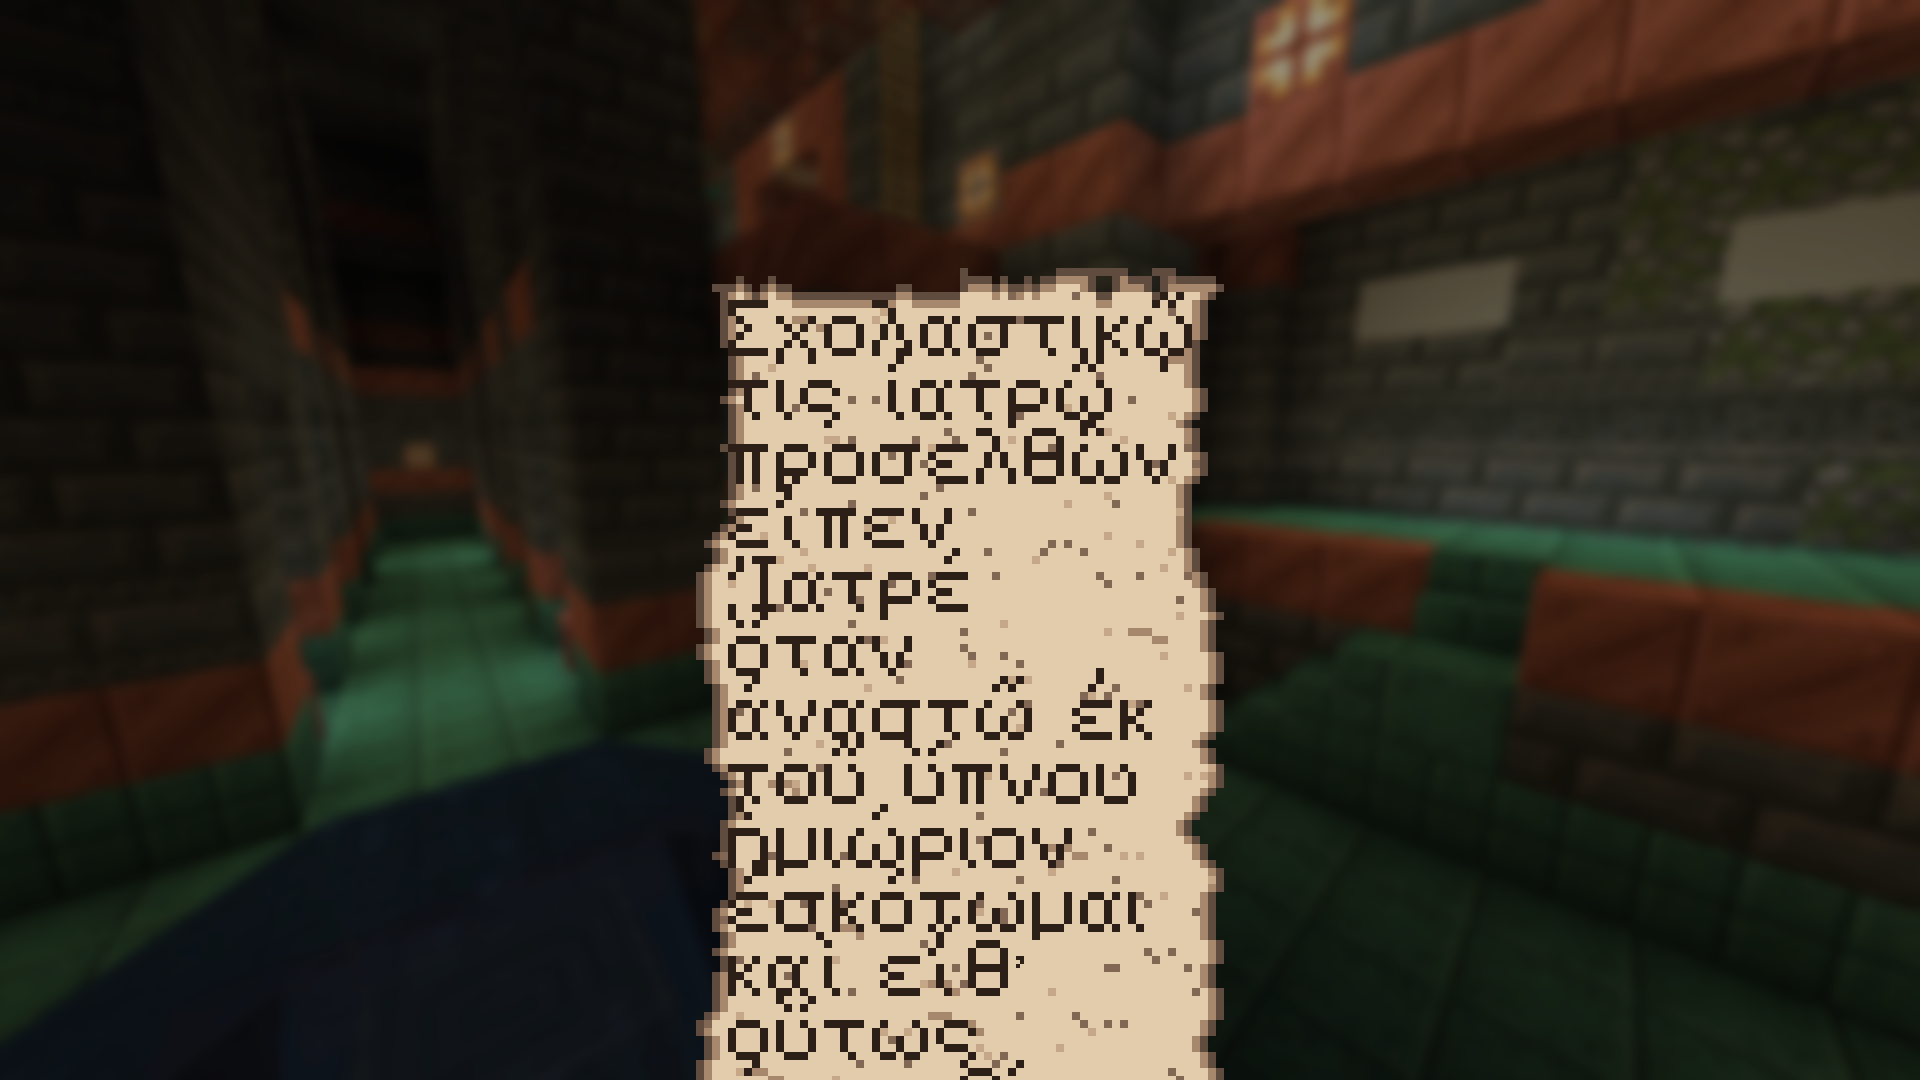
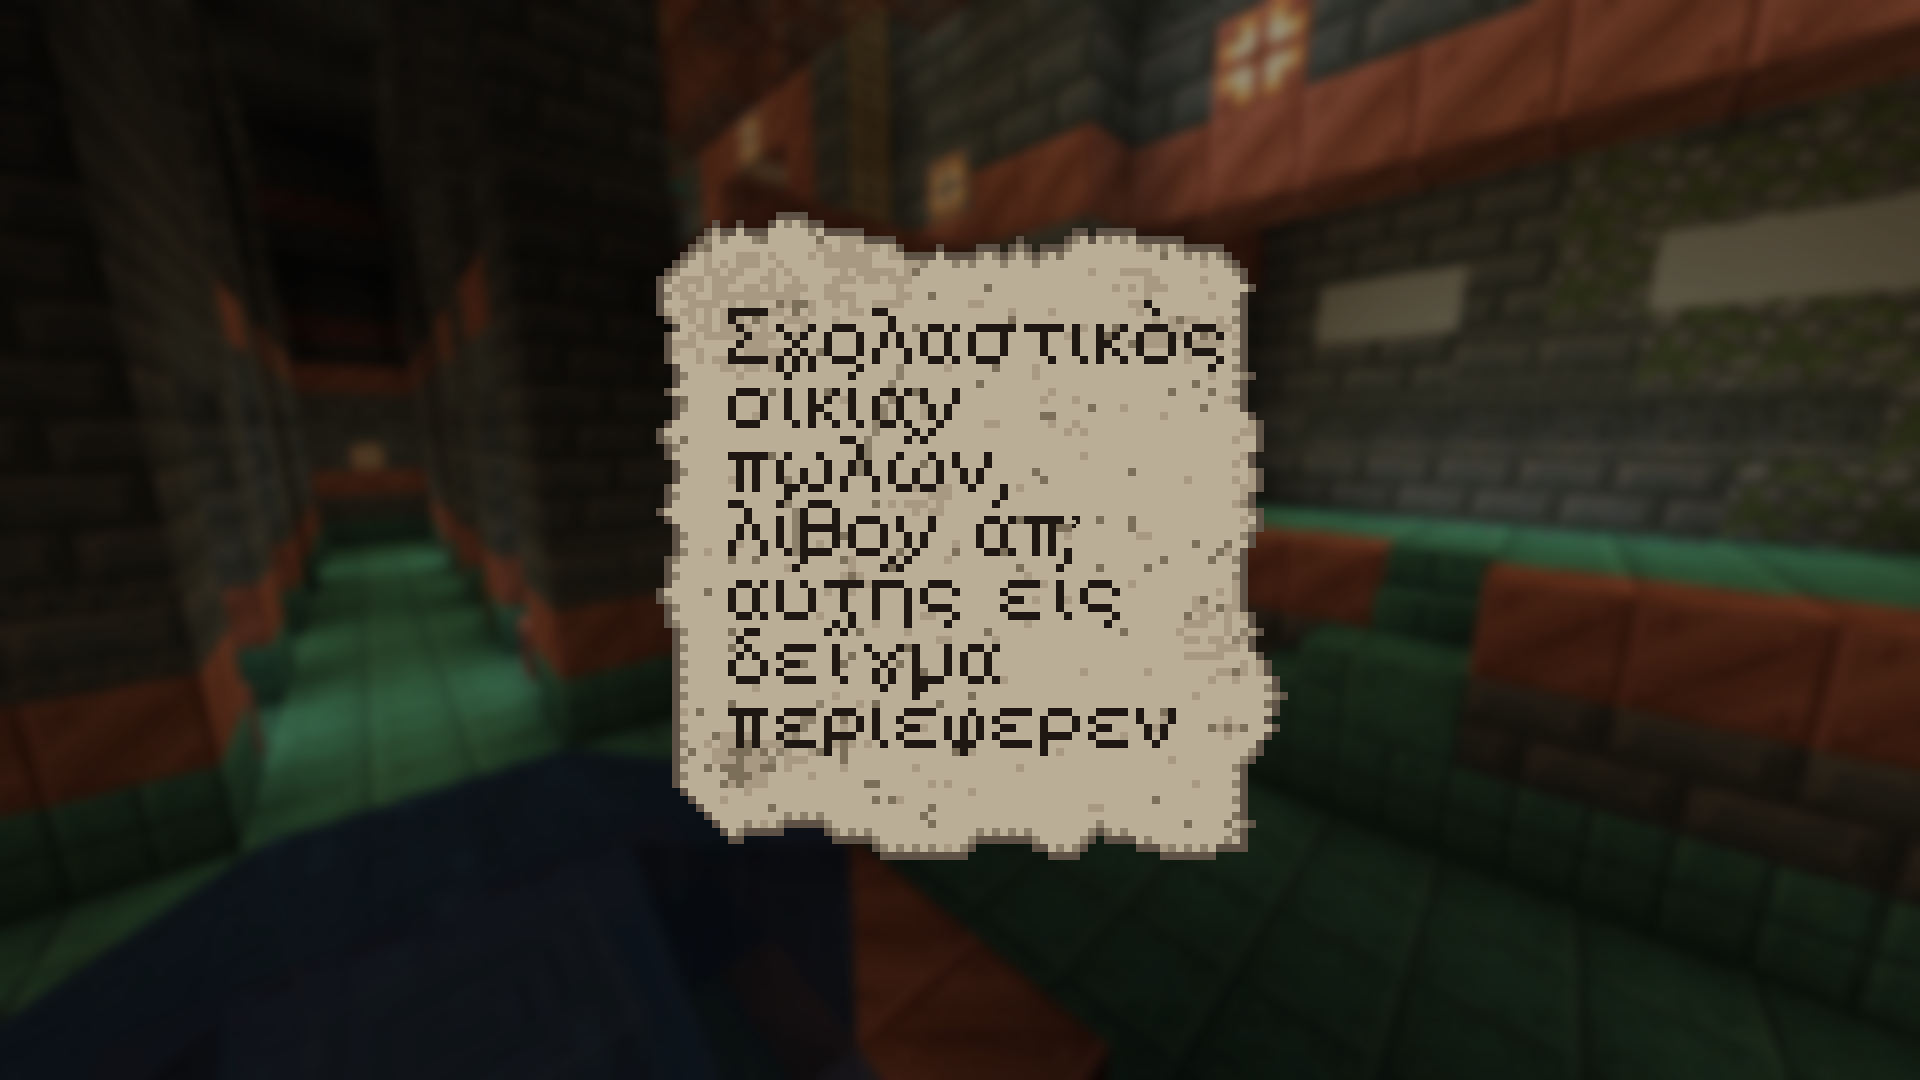
Scherben-Optik: grauer Kalkstein, unregelmaessiger Umriss, Text liegt immer ganz auf der Scherbe

diff --git a/mod/src/main/java/de/scribery/client/RaggedPaper.java b/mod/src/main/java/de/scribery/client/RaggedPaper.java
@@ -26,8 +26,10 @@ final class RaggedPaper {
         {0xFF5A4630, 0xFF8E7A52, 0xFFB09A68, 0xFFCDB985, 0xFF3E3228, 0xFF7F917C},   // wasser: Sonder = Wasserrand
         {0xFF6B5638, 0xFFB89E6E, 0xFFDCCB9B, 0xFFEBDDB4, 0xFF8E7D66, 0xFF000000},   // verblasst: blasse Tinte
         {0xFF3C5F8E, 0xFF7FA6CE, 0xFFA8C8E4, 0xFFBFD9EE, 0xFF22395A, 0xFFEAF6FF},   // gefroren: Sonder = Frost
-        {0xFF604C3E, 0xFFA8886C, 0xFFC6A888, 0xFFE2CCAC, 0xFF2B1F17, 0xFF826854},   // Scherbe (Ostrakon): gebleichter Ton, Sonder = Koernung
+        {0xFF5E5246, 0xFF8C7F6A, 0xFFA89A82, 0xFFBBAE96, 0xFF1F1812, 0xFF7C6F5A},   // Scherbe (Ostrakon): grauer Kalkstein wie auf alten Fotos, Sonder = dunkle Flecken
     };
+
+    private static final int SHERD_PAD = 8;
 
     private record Run(int x, int y, int len, String color) {}
 
@@ -64,7 +66,10 @@ final class RaggedPaper {
         draw(g, ui, x, y, w, h, edge, NORMAL);
     }
 
-    static void draw(GuiGraphics g, UiLayout ui, int x, int y, int w, int h, int edge, int look) {
+    static void draw(GuiGraphics g, UiLayout ui, int x0, int y0, int w0, int h0, int edge, int look) {
+        // Die Scherbe ist rund und braucht rundum Platz um den Text
+        final int pad = look == SHERD ? SHERD_PAD : 0;
+        final int x = x0 - pad, y = y0 - pad, w = w0 + 2 * pad, h = h0 + 2 * pad;
         long key = ((long) look << 60) ^ ((long) w << 40) ^ ((long) h << 20) ^ edge;
         List<Run> runs = CACHE.computeIfAbsent(key, k -> build(w, h, edge, k, look));
         for (Run r : runs) g.fill(x + r.x, y + r.y, x + r.x + r.len, y + r.y + 1, color(ui, look, r.color));
@@ -90,9 +95,10 @@ final class RaggedPaper {
     }
 
     private static List<Run> build(int w, int h, int edge, long seed, int look) {
+        if (look == SHERD) return buildSherd(w, h, seed);
         Random rng = new Random(seed);
         // Verkohltes Papier franst tiefer aus
-        int depth = look == CHARRED || look == SHERD ? edge + 1 : edge;
+        int depth = look == CHARRED ? edge + 1 : edge;
         int[] top = profile(rng, w, depth), bot = profile(rng, w, depth);
         int[] left = profile(rng, h, depth + 1), right = profile(rng, h, depth + 1);
         boolean[][] solid = new boolean[h][w];
@@ -101,18 +107,7 @@ final class RaggedPaper {
                 solid[yy][xx] = !(yy < top[xx] || yy >= h - bot[xx] || xx < left[yy] || xx >= w - right[yy]);
             }
         }
-        int chips = Math.max(1, w * h / (look == CHARRED ? 160 : look == SHERD ? 220 : 500));
-        if (look == SHERD) { // Scherbe: Ecken sind schraeg abgebrochen
-            for (int corner = 0; corner < 4; corner++) {
-                int k = 2 + rng.nextInt(4);
-                for (int dy = 0; dy < k; dy++) {
-                    for (int dx = 0; dx < k - dy; dx++) {
-                        int px = corner % 2 == 0 ? dx : w - 1 - dx, py = corner < 2 ? dy : h - 1 - dy;
-                        if (px >= 0 && px < w && py >= 0 && py < h) solid[py][px] = false;
-                    }
-                }
-            }
-        }
+        int chips = Math.max(1, w * h / (look == CHARRED ? 160 : 500));
         for (int i = 0; i < chips; i++) { // kleine Ausbrueche am oberen und unteren Rand
             int cx = 2 + rng.nextInt(Math.max(1, w - 4));
             int cy = rng.nextBoolean() ? rng.nextInt(2) : h - 1 - rng.nextInt(2);
@@ -135,7 +130,7 @@ final class RaggedPaper {
                 if (look == CHARRED && n && !e) color[yy][xx] = rng.nextDouble() < 0.7 ? "parchment_1" : "parchment_0";
             }
         }
-        for (int i = 0; look != SHERD && i < w * h / 40; i++) { // Fasern
+        for (int i = 0; i < w * h / 40; i++) { // Fasern
             int fx = rng.nextInt(w), fy = rng.nextInt(h), len = 2 + rng.nextInt(4);
             for (int k = 0; k < len; k++) {
                 if (fx + k < w && "parchment_3".equals(color[fy][fx + k])) color[fy][fx + k] = "parchment_2";
@@ -150,20 +145,73 @@ final class RaggedPaper {
                     if (color[fy][fx] != null && !"parchment_0".equals(color[fy][fx])) color[fy][fx] = "special";
                 }
             }
-            case SHERD -> {
-                for (int i = 0; i < w * h / 26; i++) { // Koernung des Tons: dunklere und hellere Punkte, ein paar kleine Kratzer
-                    int fx = rng.nextInt(w), fy = rng.nextInt(h);
-                    if (color[fy][fx] != null && !"parchment_0".equals(color[fy][fx])) color[fy][fx] = rng.nextDouble() < 0.6 ? "special" : "parchment_2";
-                }
-                for (int i = 0; i < w * h / 700; i++) {
-                    int fx = rng.nextInt(w), fy = rng.nextInt(h), len = 3 + rng.nextInt(5);
-                    for (int k = 0; k < len; k++) {
-                        int px = fx + k, py = fy + (k / 3);
-                        if (px < w && py < h && color[py][px] != null && !"parchment_0".equals(color[py][px])) color[py][px] = "parchment_1";
-                    }
+            default -> { }
+        }
+        List<Run> runs = new ArrayList<>();
+        for (int yy = 0; yy < h; yy++) {
+            int xx = 0;
+            while (xx < w) {
+                String c = color[yy][xx];
+                if (c == null) { xx++; continue; }
+                int start = xx;
+                while (xx < w && c.equals(color[yy][xx])) xx++;
+                runs.add(new Run(start, yy, xx - start, c));
+            }
+        }
+        return runs;
+    }
+
+    /**
+     * Scherbe nach dem Vorbild echter Ostraka: ein abgerundetes, unregelmaessiges Stueck mit ein, zwei schraegen
+     * Bruchkanten, helle Flaeche mit dunklen Flecken, Koernung und feinen Rissen. Kein ausgefranster Rand wie beim Papier.
+     */
+    private static List<Run> buildSherd(int w, int h, long seed) {
+        Random rng = new Random(seed);
+        // Umriss: ein Rechteck mit unregelmaessigen Kanten (hoechstens SHERD_PAD - 2 Pixel nach innen) und abgerundeten oder
+        // schraeg abgebrochenen Ecken. So bleibt der Text immer vollstaendig auf der Scherbe.
+        int maxDepth = SHERD_PAD - 3;
+        int[] top = profile(rng, w, maxDepth), bot = profile(rng, w, maxDepth), left = profile(rng, h, maxDepth), right = profile(rng, h, maxDepth);
+        boolean[][] solid = new boolean[h][w];
+        for (int yy = 0; yy < h; yy++) {
+            for (int xx = 0; xx < w; xx++) {
+                solid[yy][xx] = !(yy < top[xx] || yy >= h - bot[xx] || xx < left[yy] || xx >= w - right[yy]);
+            }
+        }
+        for (int corner = 0; corner < 4; corner++) {
+            int c = 3 + rng.nextInt(2 * SHERD_PAD - 3);          // Groesse der Ecke, kleiner als der Abstand der Textecke
+            boolean round = rng.nextBoolean();
+            for (int dy = 0; dy < c; dy++) {
+                for (int dx = 0; dx < c; dx++) {
+                    boolean cut = round ? Math.pow(c - 1 - dx, 2) + Math.pow(c - 1 - dy, 2) > Math.pow(c - 1, 2) : dx + dy < c - 1;
+                    if (!cut) continue;
+                    int px = corner % 2 == 0 ? dx : w - 1 - dx, py = corner < 2 ? dy : h - 1 - dy;
+                    if (px >= 0 && px < w && py >= 0 && py < h) solid[py][px] = false;
                 }
             }
-            default -> { }
+        }
+        String[][] color = new String[h][w];
+        for (int yy = 0; yy < h; yy++) {
+            for (int xx = 0; xx < w; xx++) {
+                if (!solid[yy][xx]) continue;
+                boolean e = !(at(solid, xx - 1, yy) && at(solid, xx + 1, yy) && at(solid, xx, yy - 1) && at(solid, xx, yy + 1));
+                boolean nearEdge = !(at(solid, xx - 2, yy) && at(solid, xx + 2, yy) && at(solid, xx, yy - 2) && at(solid, xx, yy + 2));
+                color[yy][xx] = e ? "parchment_0" : nearEdge && (xx + yy) % 2 == 0 ? "parchment_1" : "parchment_3";
+            }
+        }
+        blobs(color, rng, 2 + w * h / 900, 3, 9, 3, 8, "parchment_2", "parchment_3", null);   // helle und dunklere Partien der Oberflaeche
+        blobs(color, rng, 1 + w * h / 1500, 1, 3, 1, 3, "special", "parchment_2", null);       // dunkle Flecken
+        for (int i = 0; i < w * h / 22; i++) { // Koernung
+            int fx = rng.nextInt(w), fy = rng.nextInt(h);
+            if (color[fy][fx] != null && !"parchment_0".equals(color[fy][fx])) color[fy][fx] = rng.nextDouble() < 0.55 ? "parchment_2" : "special";
+        }
+        for (int i = 0; i < 1 + w * h / 1400; i++) { // feine Risse: kurze gerade Linien
+            double a = rng.nextDouble() * Math.PI;
+            double x = rng.nextInt(w), y = rng.nextInt(h);
+            int len = 6 + rng.nextInt(12);
+            for (int k = 0; k < len; k++) {
+                int px = (int) Math.round(x + Math.cos(a) * k), py = (int) Math.round(y + Math.sin(a) * k);
+                if (px >= 0 && px < w && py >= 0 && py < h && color[py][px] != null && !"parchment_0".equals(color[py][px])) color[py][px] = "parchment_1";
+            }
         }
         List<Run> runs = new ArrayList<>();
         for (int yy = 0; yy < h; yy++) {

diff --git a/mod/src/main/java/de/scribery/client/SelfTest.java b/mod/src/main/java/de/scribery/client/SelfTest.java
@@ -216,6 +216,10 @@ final class SelfTest {
                 de.scribery.Manuscripts.ostraka().get(2).words().stream().map(w -> w.greek()).toList(), de.scribery.LecternBlockEntity.OSTRAKON_LOOK)));
         then(20, () -> LOG.info("[selftest] Ostrakon-Ansicht offen: {}", mc.screen == null ? "nichts" : mc.screen.getClass().getSimpleName()));
         shot(mc, "35-ostrakon-view");
+        then(0, () -> mc.setScreen(new SheetViewScreen(
+                de.scribery.Manuscripts.ostraka().get(14).words().stream().map(w -> w.greek()).toList(), de.scribery.LecternBlockEntity.OSTRAKON_LOOK)));
+        then(20, () -> { });
+        shot(mc, "36-ostrakon-view-small");
         then(0, () -> mc.setScreen(new BookScreen("greek_grammar_book", BookText.read("greek_grammar_book"))));
         then(0, () -> ((BookScreen) mc.screen).goTo(8));
         shot(mc, "33-grammar-page-9");
